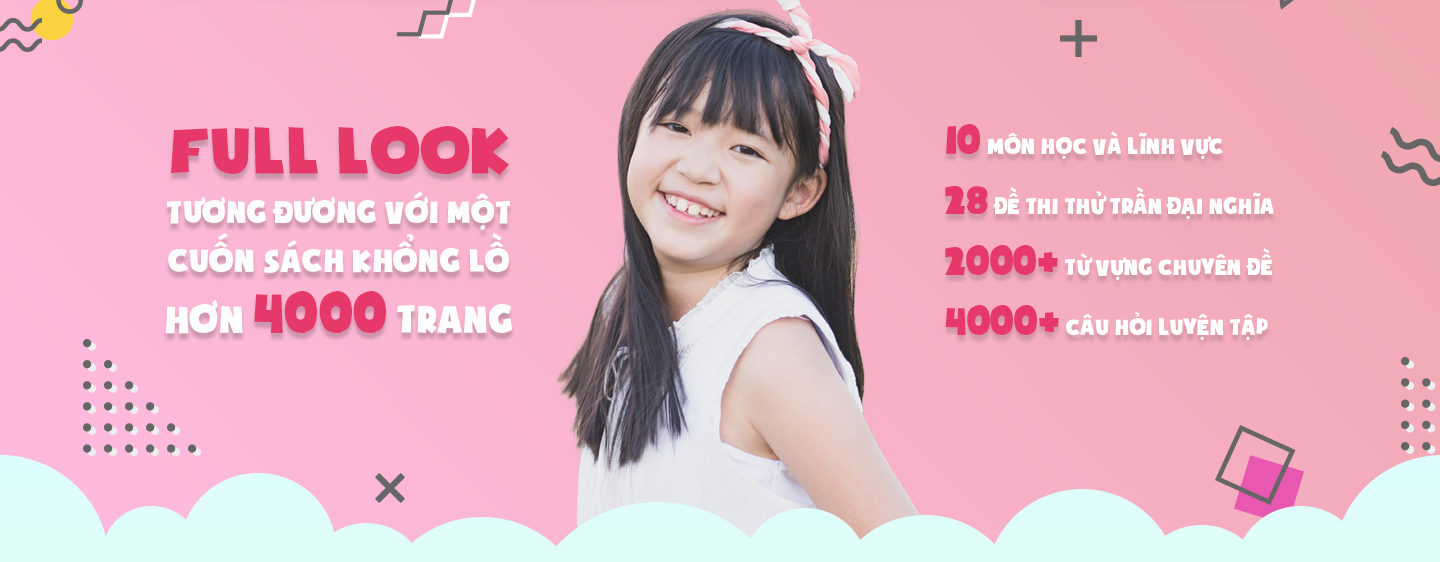
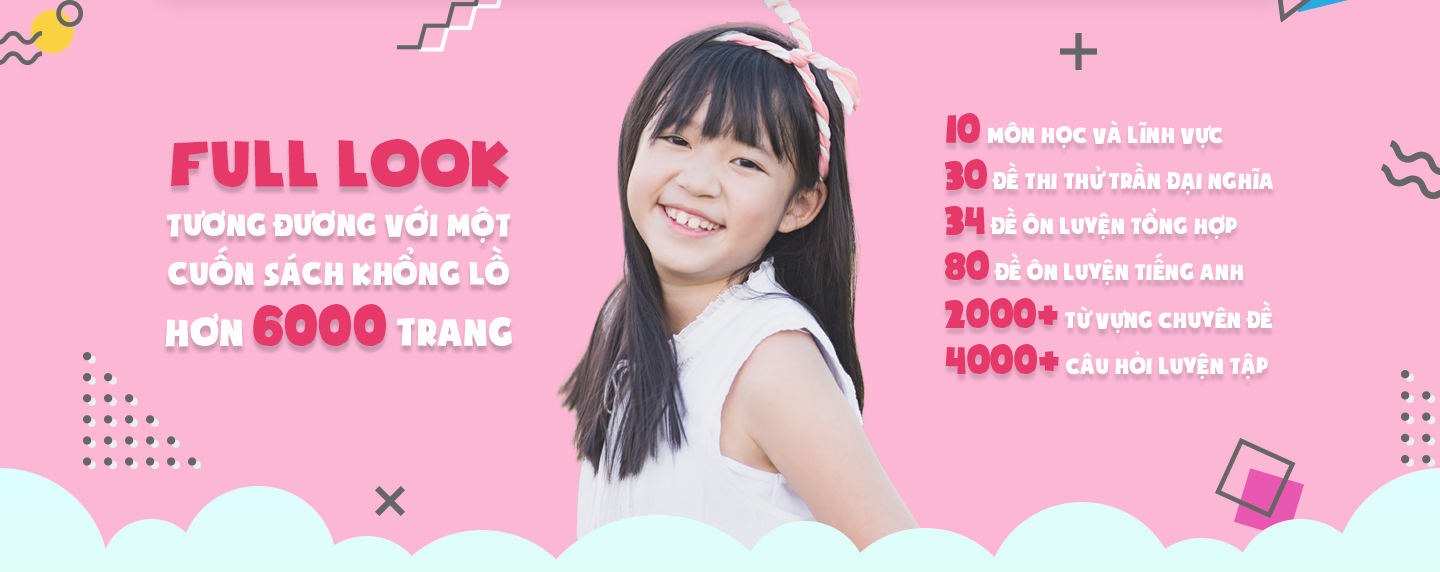
huunv

diff --git a/common/slider.php b/common/slider.php
@@ -27,7 +27,7 @@
         </div>
       </div>
       <div rel="#fcb7d5" class="carousel-item">
-        <img class="d-block w-100" src="/assets/images/banner.png" alt="Second slide">
+        <img class="d-block w-100" src="/assets/images/slider4.png" alt="Second slide">
         <div class="absolute btdk d-none d-sm-block"><a class="btn btn-warning" href="/about.php#guide">Đăng kí ngay</a>
         </div>
         <div class="absolute btdk2 d-block d-sm-none"><a class="btn-xs btn-warning" href="/about.php#guide">Đăng kí ngay</a>
